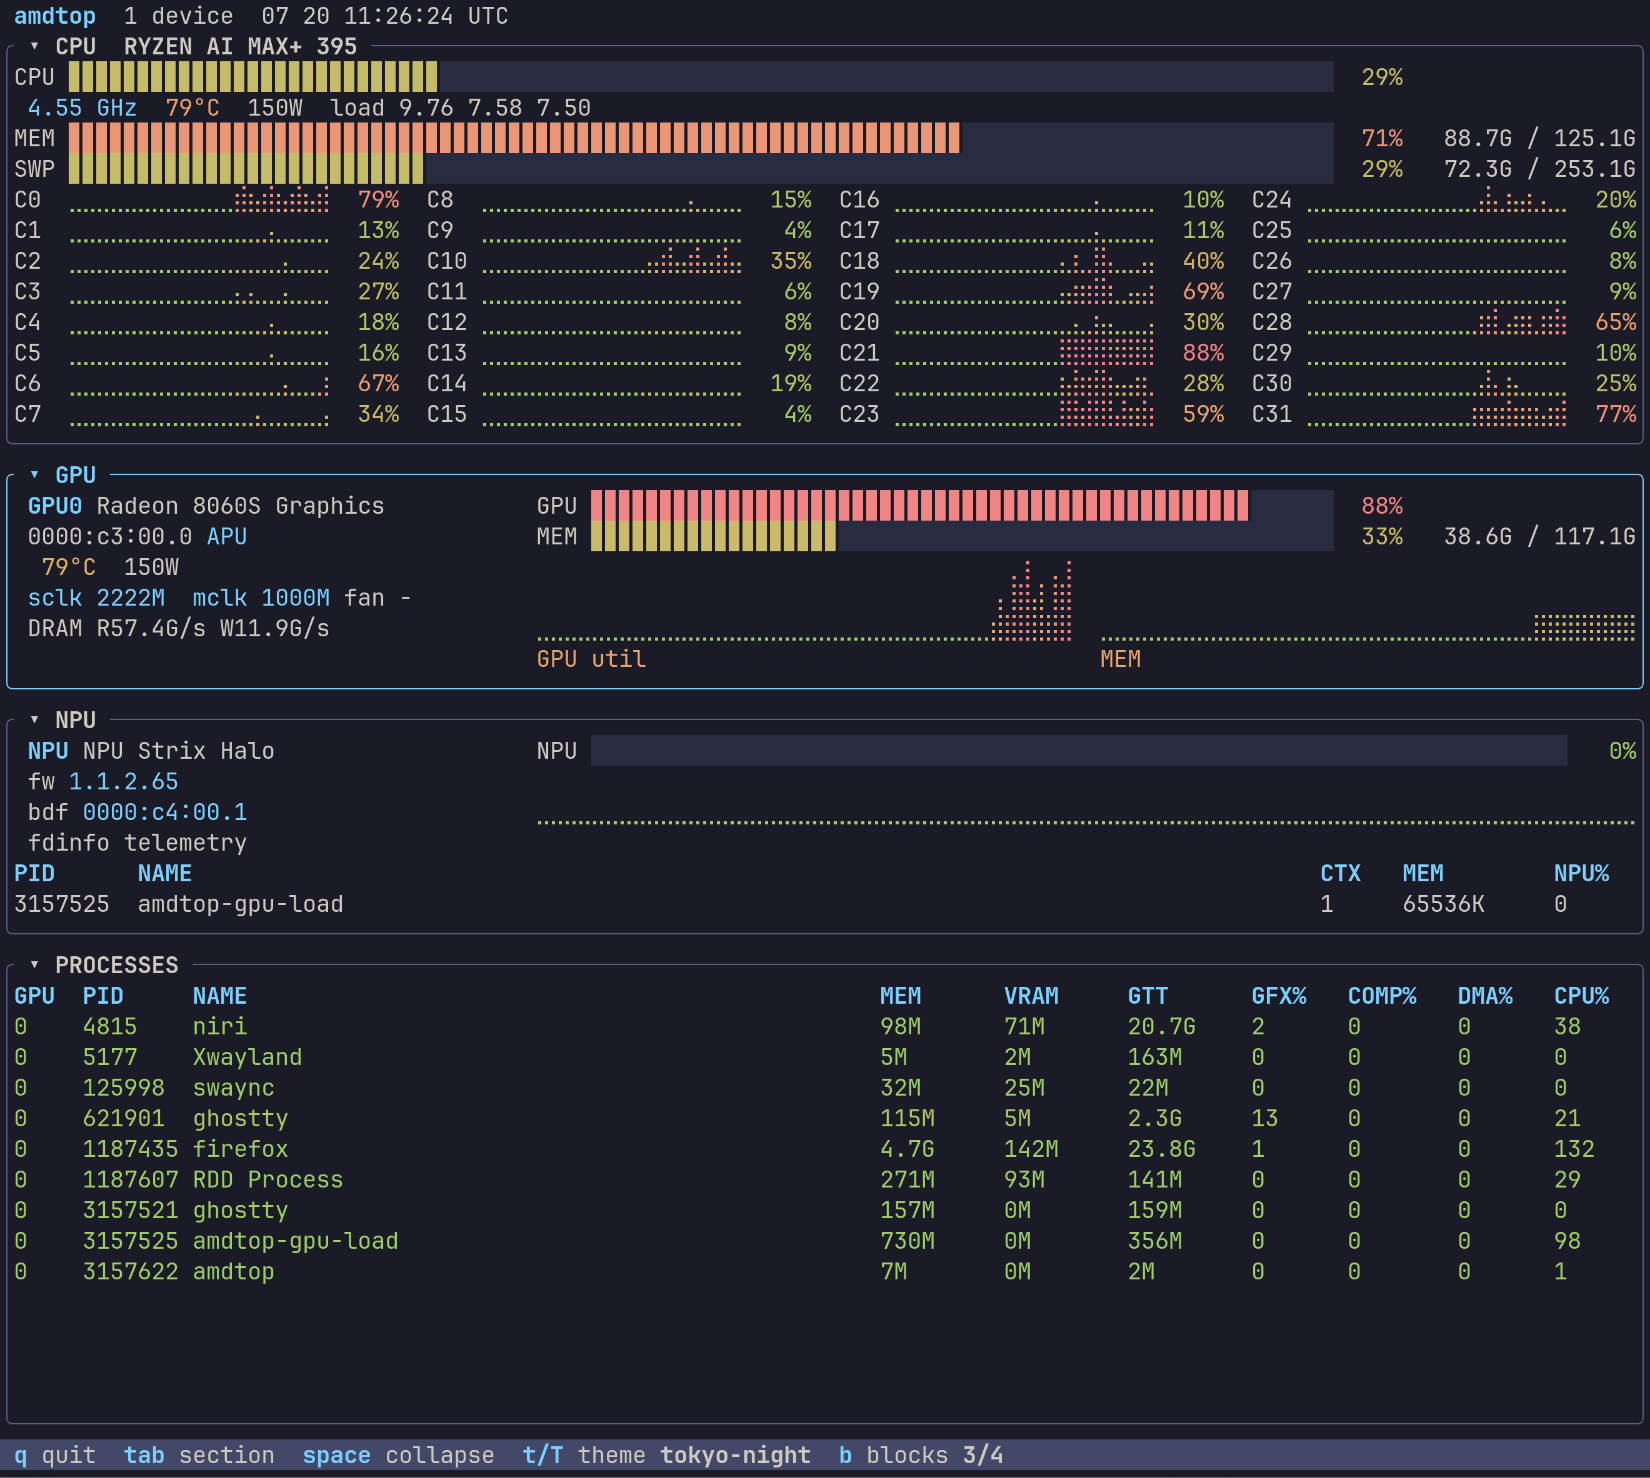
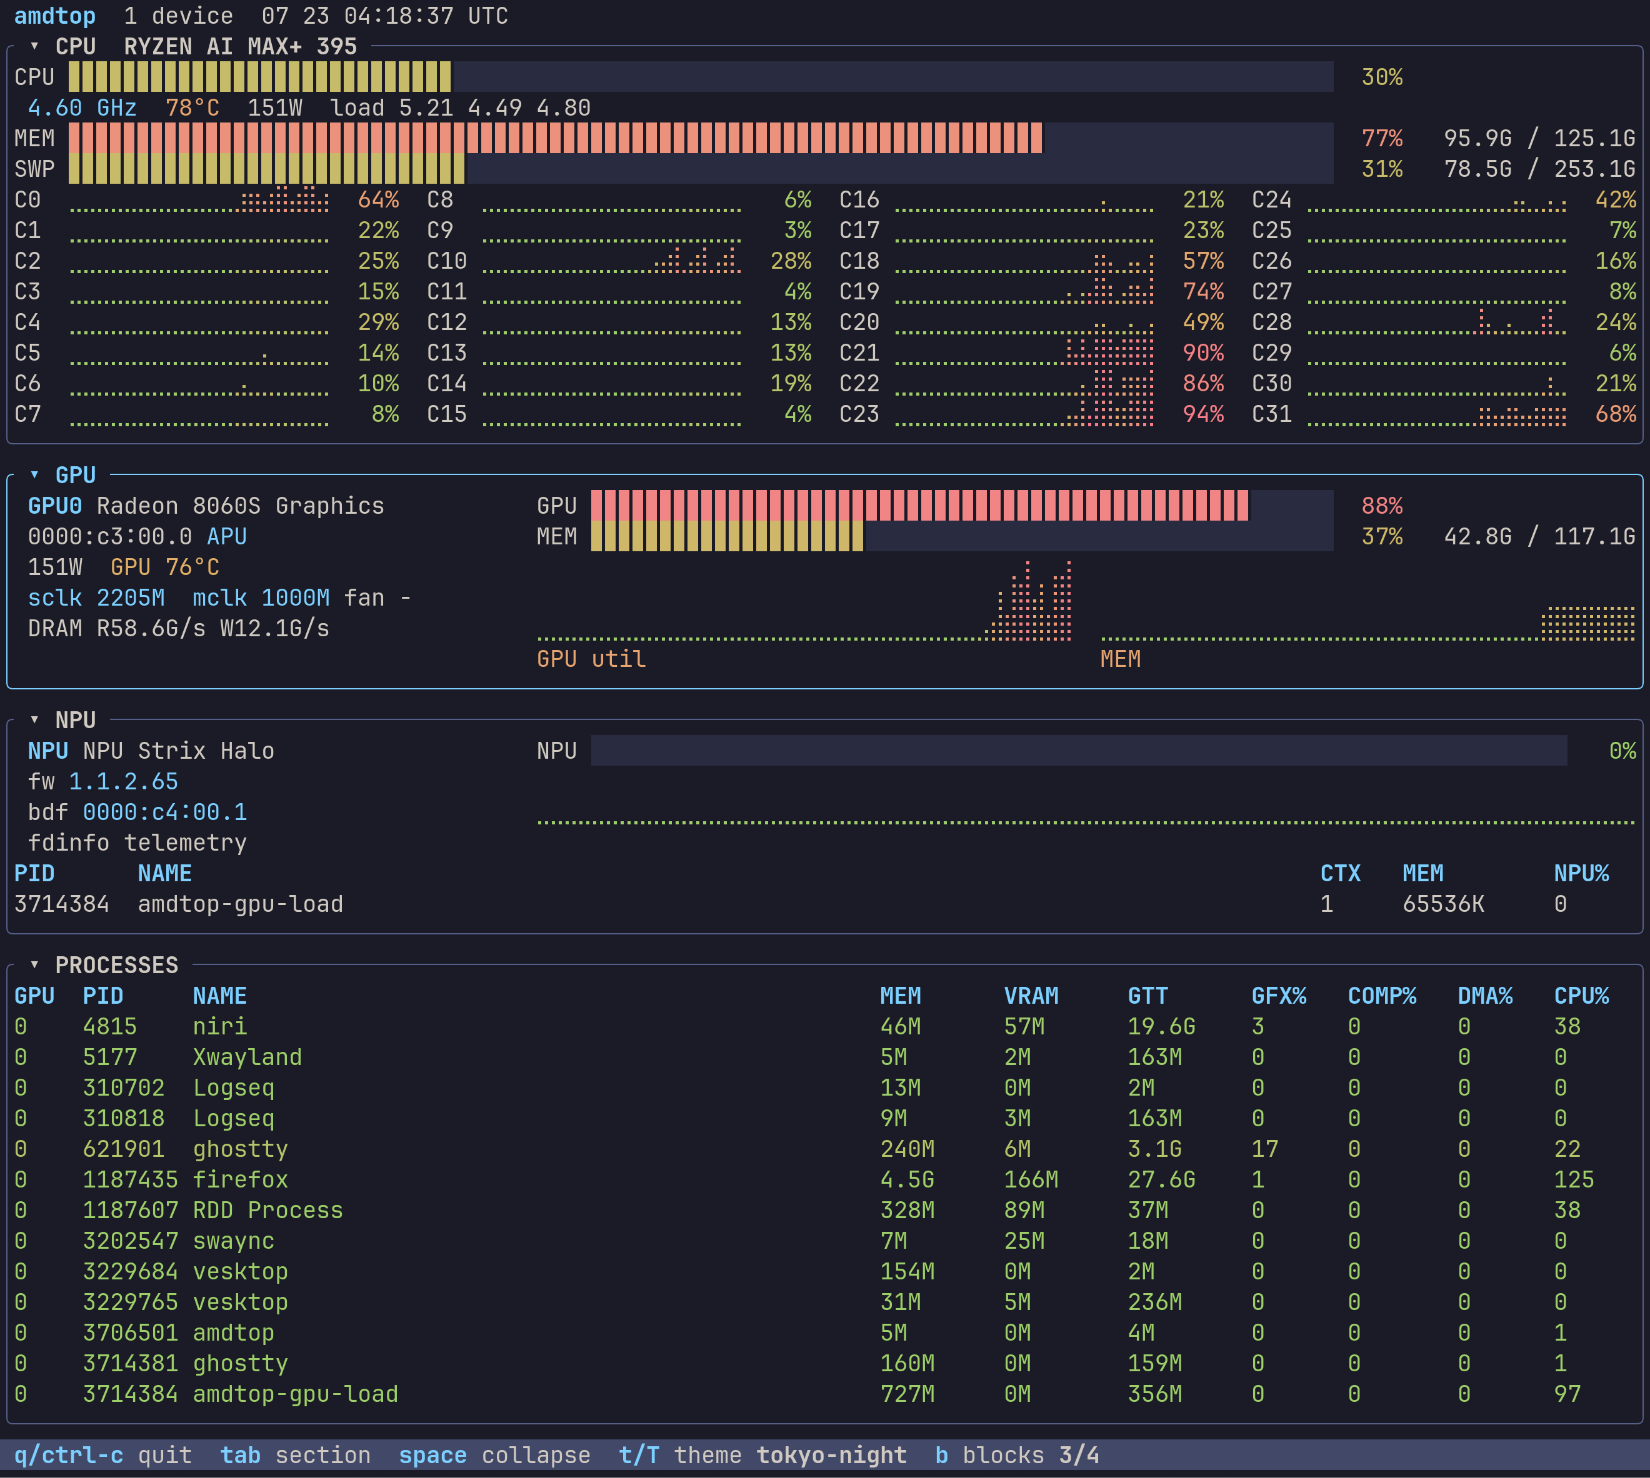
Prepare amdtop 0.2.6

diff --git a/CHANGELOG.md b/CHANGELOG.md
@@ -7,6 +7,8 @@ and this project adheres to [Semantic Versioning](https://semver.org/spec/v2.0.0
 
 ## [Unreleased]
 
+## [0.2.6] - 2026-07-23
+
 ### Added
 
 - Allow quitting with `Ctrl+C` in addition to `q` and `Esc`.
@@ -154,7 +156,8 @@ and this project adheres to [Semantic Versioning](https://semver.org/spec/v2.0.0
 - Collapsible sections, persistent UI state, btop theme support, and selectable
   gauge styles.
 
-[Unreleased]: https://github.com/lhl/amdtop/compare/v0.2.5...HEAD
+[Unreleased]: https://github.com/lhl/amdtop/compare/v0.2.6...HEAD
+[0.2.6]: https://github.com/lhl/amdtop/compare/v0.2.5...v0.2.6
 [0.2.5]: https://github.com/lhl/amdtop/compare/v0.2.4...v0.2.5
 [0.2.4]: https://github.com/lhl/amdtop/compare/v0.2.3...v0.2.4
 [0.2.3]: https://github.com/lhl/amdtop/compare/v0.2.2...v0.2.3